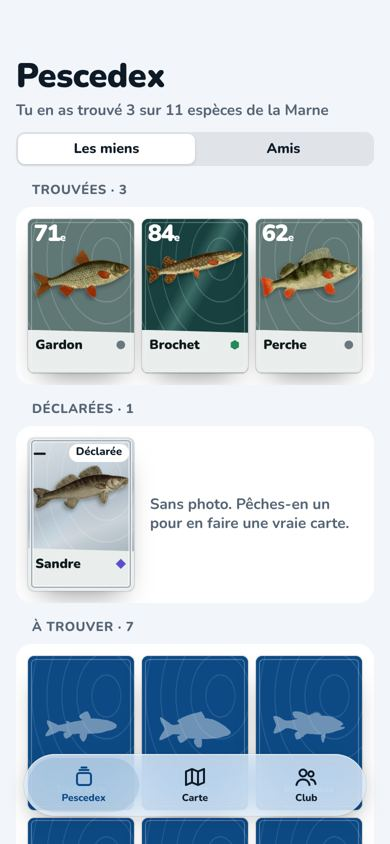
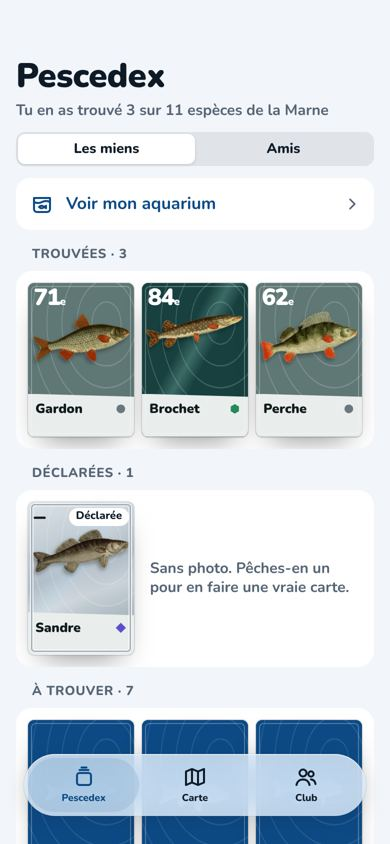
Design : P26 B avec « Voir mon aquarium » (choix d'Adem)
Claude-Session: https://claude.ai/code/session_01SHD9N8ay5HXbeEQZKxhWVP

diff --git a/docs/design/maquettes/P26-pescedex-B.dc.html b/docs/design/maquettes/P26-pescedex-B.dc.html
@@ -19,7 +19,7 @@ body{margin:0}
 </style>
 </helmet>
 <div class="ecran">
-<div class="haut" style="padding-bottom:0"><h1 class="t-grand">Pescedex</h1><div class="t-detail" style="margin-top:6px">Tu en as trouvé 3 sur 11 espèces de la Marne</div><div style="margin-top:12px"><div class="seg"><span class="on">Les miens</span><span>Amis</span></div></div></div>
+<div class="haut" style="padding-bottom:0"><h1 class="t-grand">Pescedex</h1><div class="t-detail" style="margin-top:6px">Tu en as trouvé 3 sur 11 espèces de la Marne</div><div style="margin-top:12px"><div class="seg"><span class="on">Les miens</span><span>Amis</span></div></div><a href="#" style="margin-top:12px;display:flex;align-items:center;gap:12px;height:52px;padding:0 14px;border-radius:14px;background:var(--surface);color:var(--marine)"><svg viewBox="0 0 24 24" aria-hidden="true" style="width:24px;height:24px;flex:none"><g fill="none" stroke="currentColor" stroke-width="2" stroke-linecap="round" stroke-linejoin="round"><path d="M4 6h16v11a3 3 0 0 1-3 3H7a3 3 0 0 1-3-3Z"/><path d="M4 10c2.5 1.4 5 1.4 8 0s5.5-1.4 8 0"/><path d="M9 15c1.5-1.6 3.5-1.6 5 0-1.5 1.6-3.5 1.6-5 0Z"/><path d="m14 15 2-1.2v2.4Z"/></g></svg><b class="t-corps" style="color:inherit;flex:1">Voir mon aquarium</b><svg viewBox="0 0 24 24" aria-hidden="true" style="width:16px;height:16px;color:var(--encre-douce)"><path d="m9 5 7 7-7 7" fill="none" stroke="currentColor" stroke-width="2.4" stroke-linecap="round" stroke-linejoin="round"/></svg></a></div>
 <div class="zone"><div class="entete-groupe" style="padding-left:16px;padding-top:16px">Trouvées · 3</div><div class="groupe" style="margin-top:8px;padding:12px"><div class="p26-g" style="gap:8px"><div class="fc c mini" style="width:100%">
 <div class="win"></div>
 <div class="fish"><img src="/_blob/4799d66fb5fc82ab53e0051d38867b2d" alt="Gardon"></div>

diff --git a/docs/design/choix.md b/docs/design/choix.md
@@ -30,3 +30,4 @@ Direction retenue pour chaque page de la toile (A · Plans, B · Réglages, C ·
 | P25 Verso de la carte | C · Sujet | 16 oct. 2h50 |
 
 Décision (16 oct. 2h50) : badge « Trophée » sur la carte d'une prise plus grande que 90 % des prises connues de son espèce ; la rareté ne bouge pas (fréquence OFB seule).
+| P26 Pescedex | B · Réglages, avec le bouton « Voir mon aquarium » | 16 oct. 2h51 |
